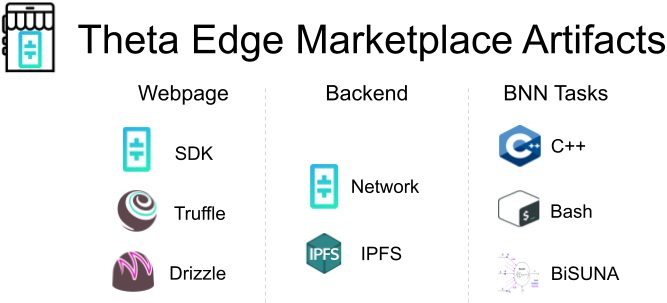
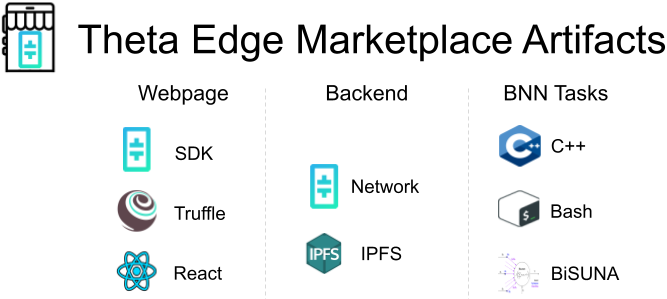
class to className. Update WebPAgeScreenshot.png and TEM-Artifacts.png

diff --git a/client/src/DComponent.js b/client/src/DComponent.js
@@ -224,15 +224,15 @@ class DComponent extends Component
         return (
             <React.Fragment>
             <h2> Add Task </h2>
-            <form onSubmit={this.taskSubmit} class="styleform">
+            <form onSubmit={this.taskSubmit} className="styleform">
                 <label>TFuel for Task:</label>
-                <div class="clear"></div>
+                <div className="clear"></div>
                 <input type="text" id="taskValue" placeholder="Task TFuel value" minLength="1" onKeyDown={this.handleKeyDown} onChange={this.handleFormChange} />
                 <br/>
                 <label>IPFS Hash:</label>
-                <div class="clear"></div>
+                <div className="clear"></div>
                 <input type="text" id="taskHash" placeholder="Task Hash" minLength="5" onKeyDown={this.handleKeyDown} onChange={this.handleFormChange} />
-                <div class="clear"></div>
+                <div className="clear"></div>
                 <input type='submit' value="Submit" id="taskSubmitButton" />
             </form>
             </React.Fragment>
@@ -247,15 +247,15 @@ class DComponent extends Component
         return (
             <React.Fragment>
             <h2> Add Solution to task </h2>
-            <form onSubmit={this.solutionSubmit} class="styleform">
+            <form onSubmit={this.solutionSubmit} className="styleform">
                 <label>Task:</label>
-                <div class="clear"></div>
+                <div className="clear"></div>
                 <input type="text" id="solutionTask" placeholder="Task hash" minLength="5" onKeyDown={this.handleKeyDown} onChange={this.handleFormChange} />
                 <br/>
                 <label>Solution IPFS Hash:</label>
-                <div class="clear"></div>
+                <div className="clear"></div>
                 <input type="text" id="solutionHash" placeholder="Solution Hash" minLength="5" onKeyDown={this.handleKeyDown} onChange={this.handleFormChange} />
-                <div class="clear"></div>
+                <div className="clear"></div>
                 <input type='submit' value="Submit" id="solutionSubmitButton"/>
             </form>
             </React.Fragment>
@@ -270,15 +270,15 @@ class DComponent extends Component
         return (
             <React.Fragment>
             <h2> Mark task as solved </h2>
-            <form onSubmit={this.taskSolvedSubmit} class="styleform">
+            <form onSubmit={this.taskSolvedSubmit} className="styleform">
                 <label>Task solution:</label>
-                <div class="clear"></div>
+                <div className="clear"></div>
                 <input type="text" id="taskSolution" placeholder="Task Solution" minLength="5" onKeyDown={this.handleKeyDown} onChange={this.handleFormChange} />
-                <div class="clear"></div>
+                <div className="clear"></div>
                 <label>Task Hash:</label>
-                <div class="clear"></div>
+                <div className="clear"></div>
                 <input type="text" id="taskHashSolution" placeholder="Task Hash" minLength="5" onKeyDown={this.handleKeyDown} onChange={this.handleFormChange} />
-                <div class="clear"></div>
+                <div className="clear"></div>
                 <input type='submit' value="Submit" id="taskSolvedSubmitButton"/>
             </form>
             </React.Fragment>
@@ -296,10 +296,10 @@ class DComponent extends Component
         return (
             <React.Fragment>
             <h2> Load a theta account using Private Key </h2>
-            <form onSubmit={this.thetaPrivKeySubmitEvent} class="styleform">
+            <form onSubmit={this.thetaPrivKeySubmitEvent} className="styleform">
                 <input type="text" id="thetaAccountPrivKey" placeholder="Private Key"
                     minLength="10" onKeyDown={this.handleKeyDown} onChange={this.handleFormChange} />
-                <div class="clear"></div>
+                <div className="clear"></div>
                 <input type='submit' value="Submit" />
             </form>
             </React.Fragment>
